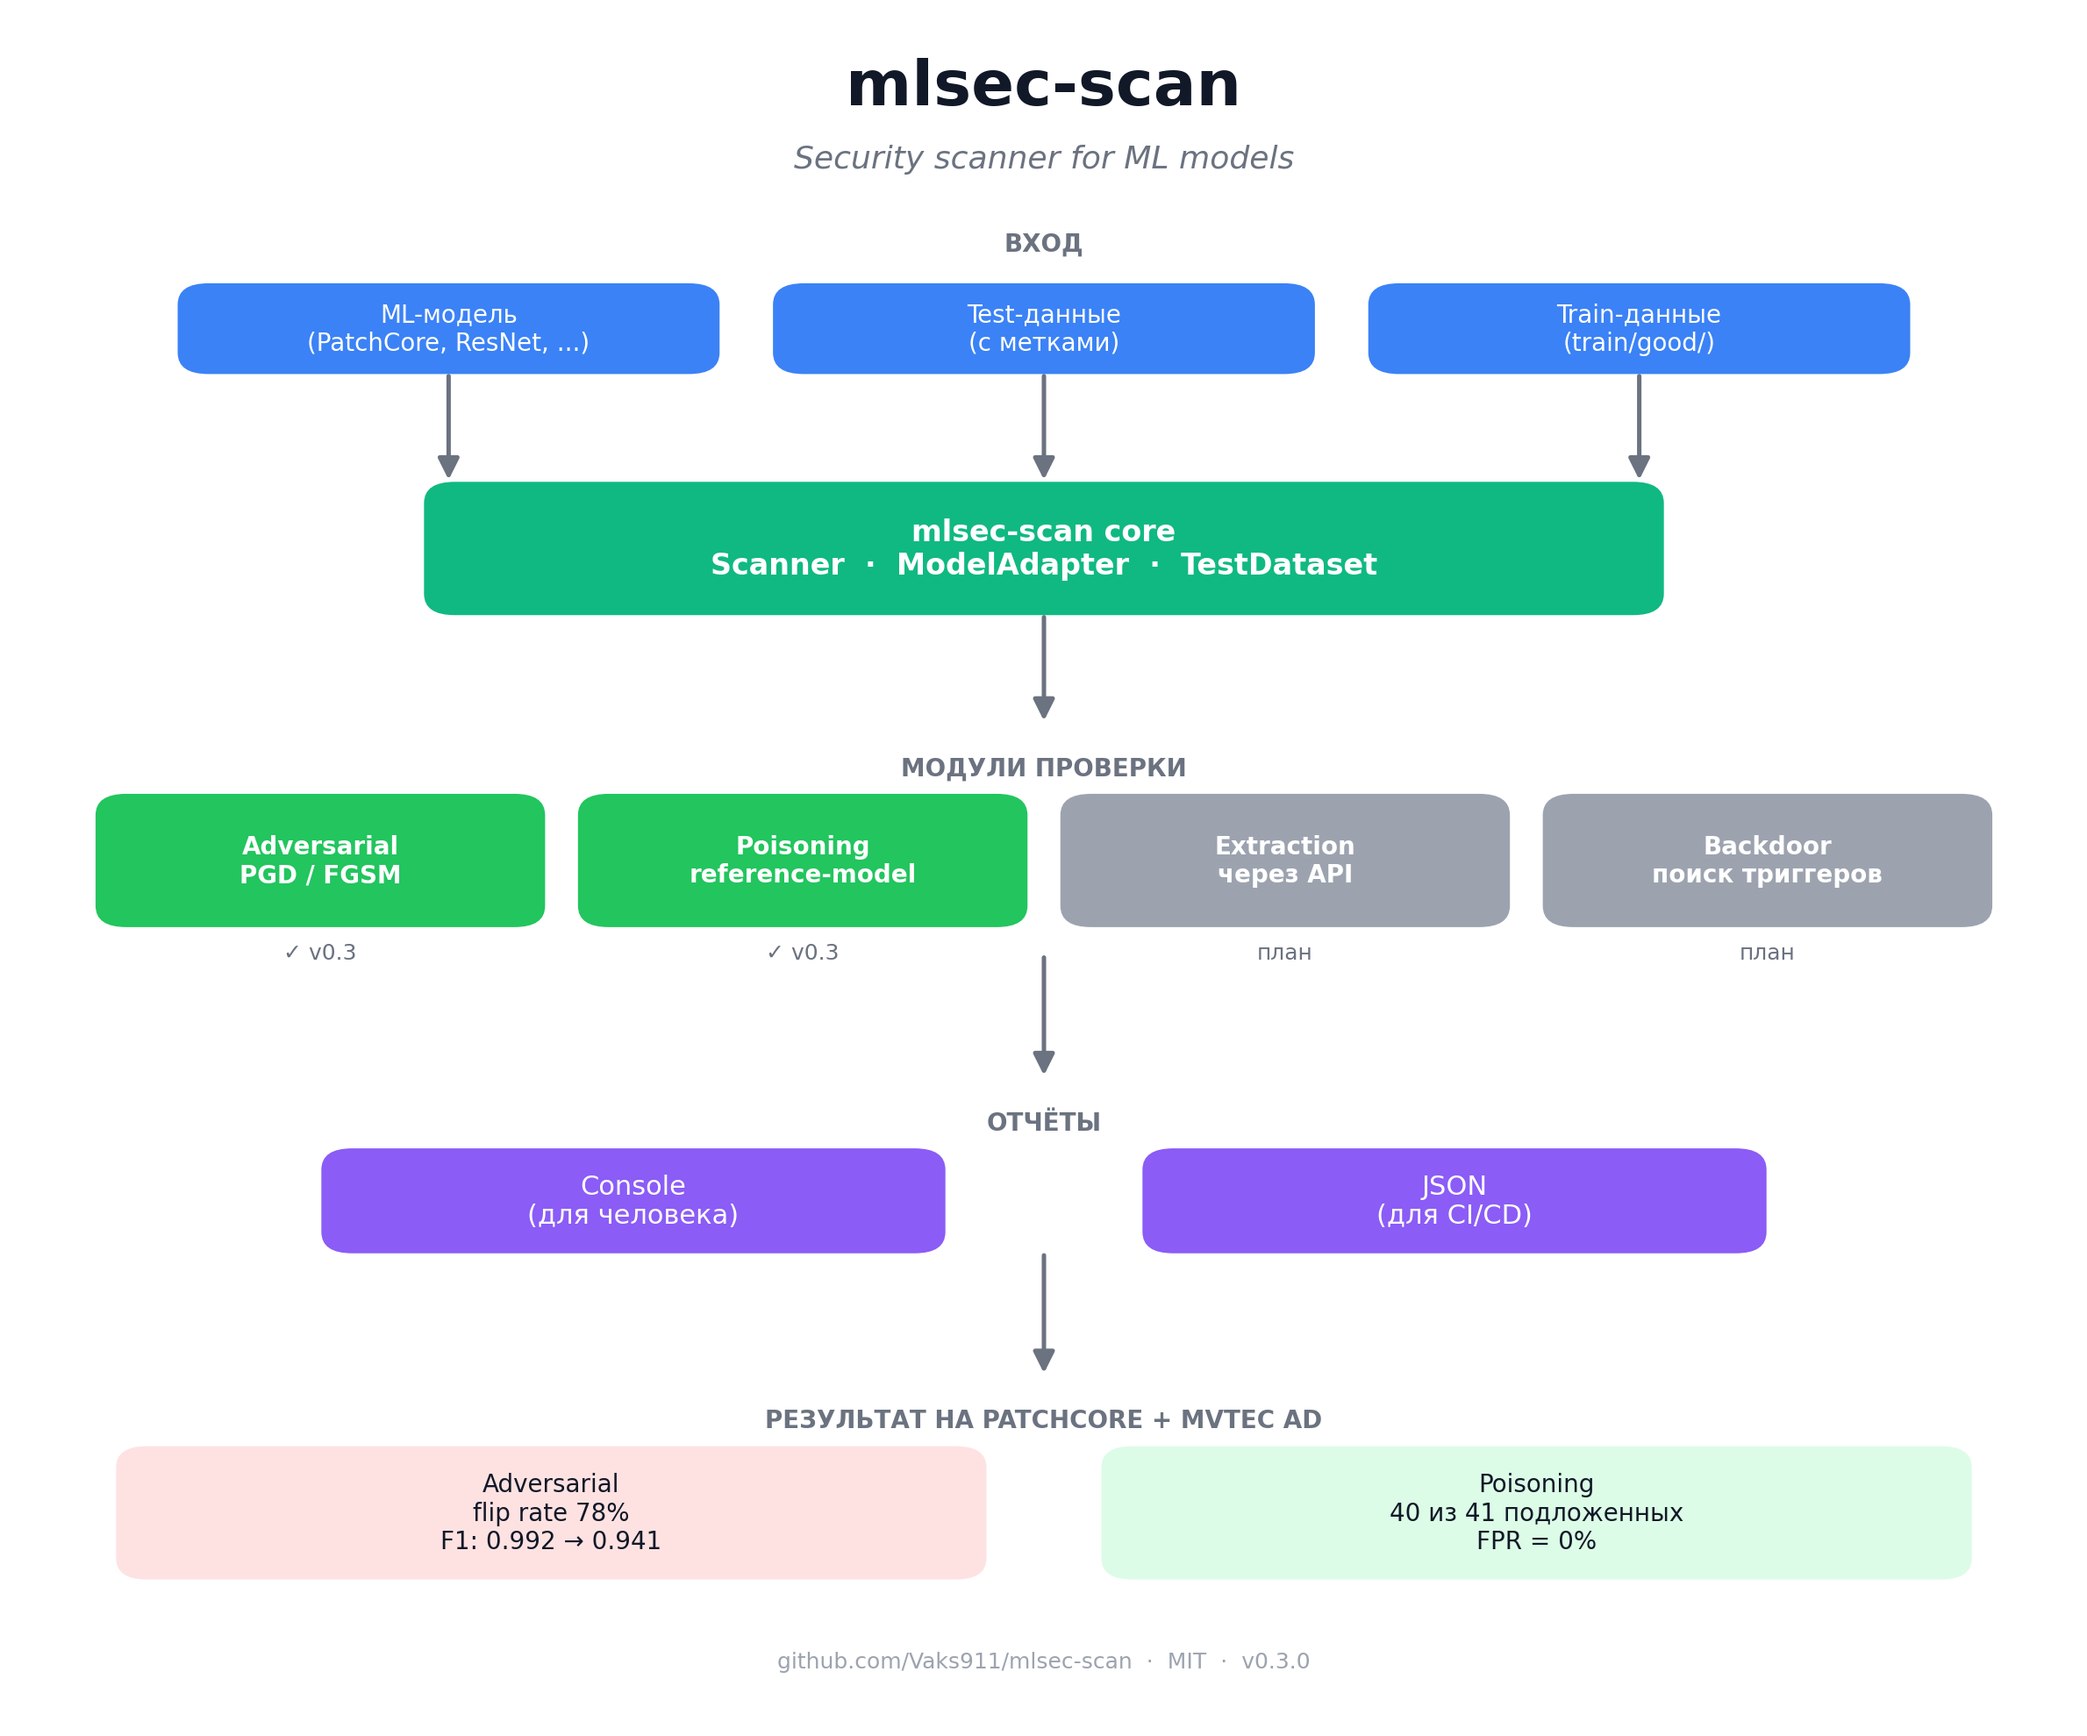
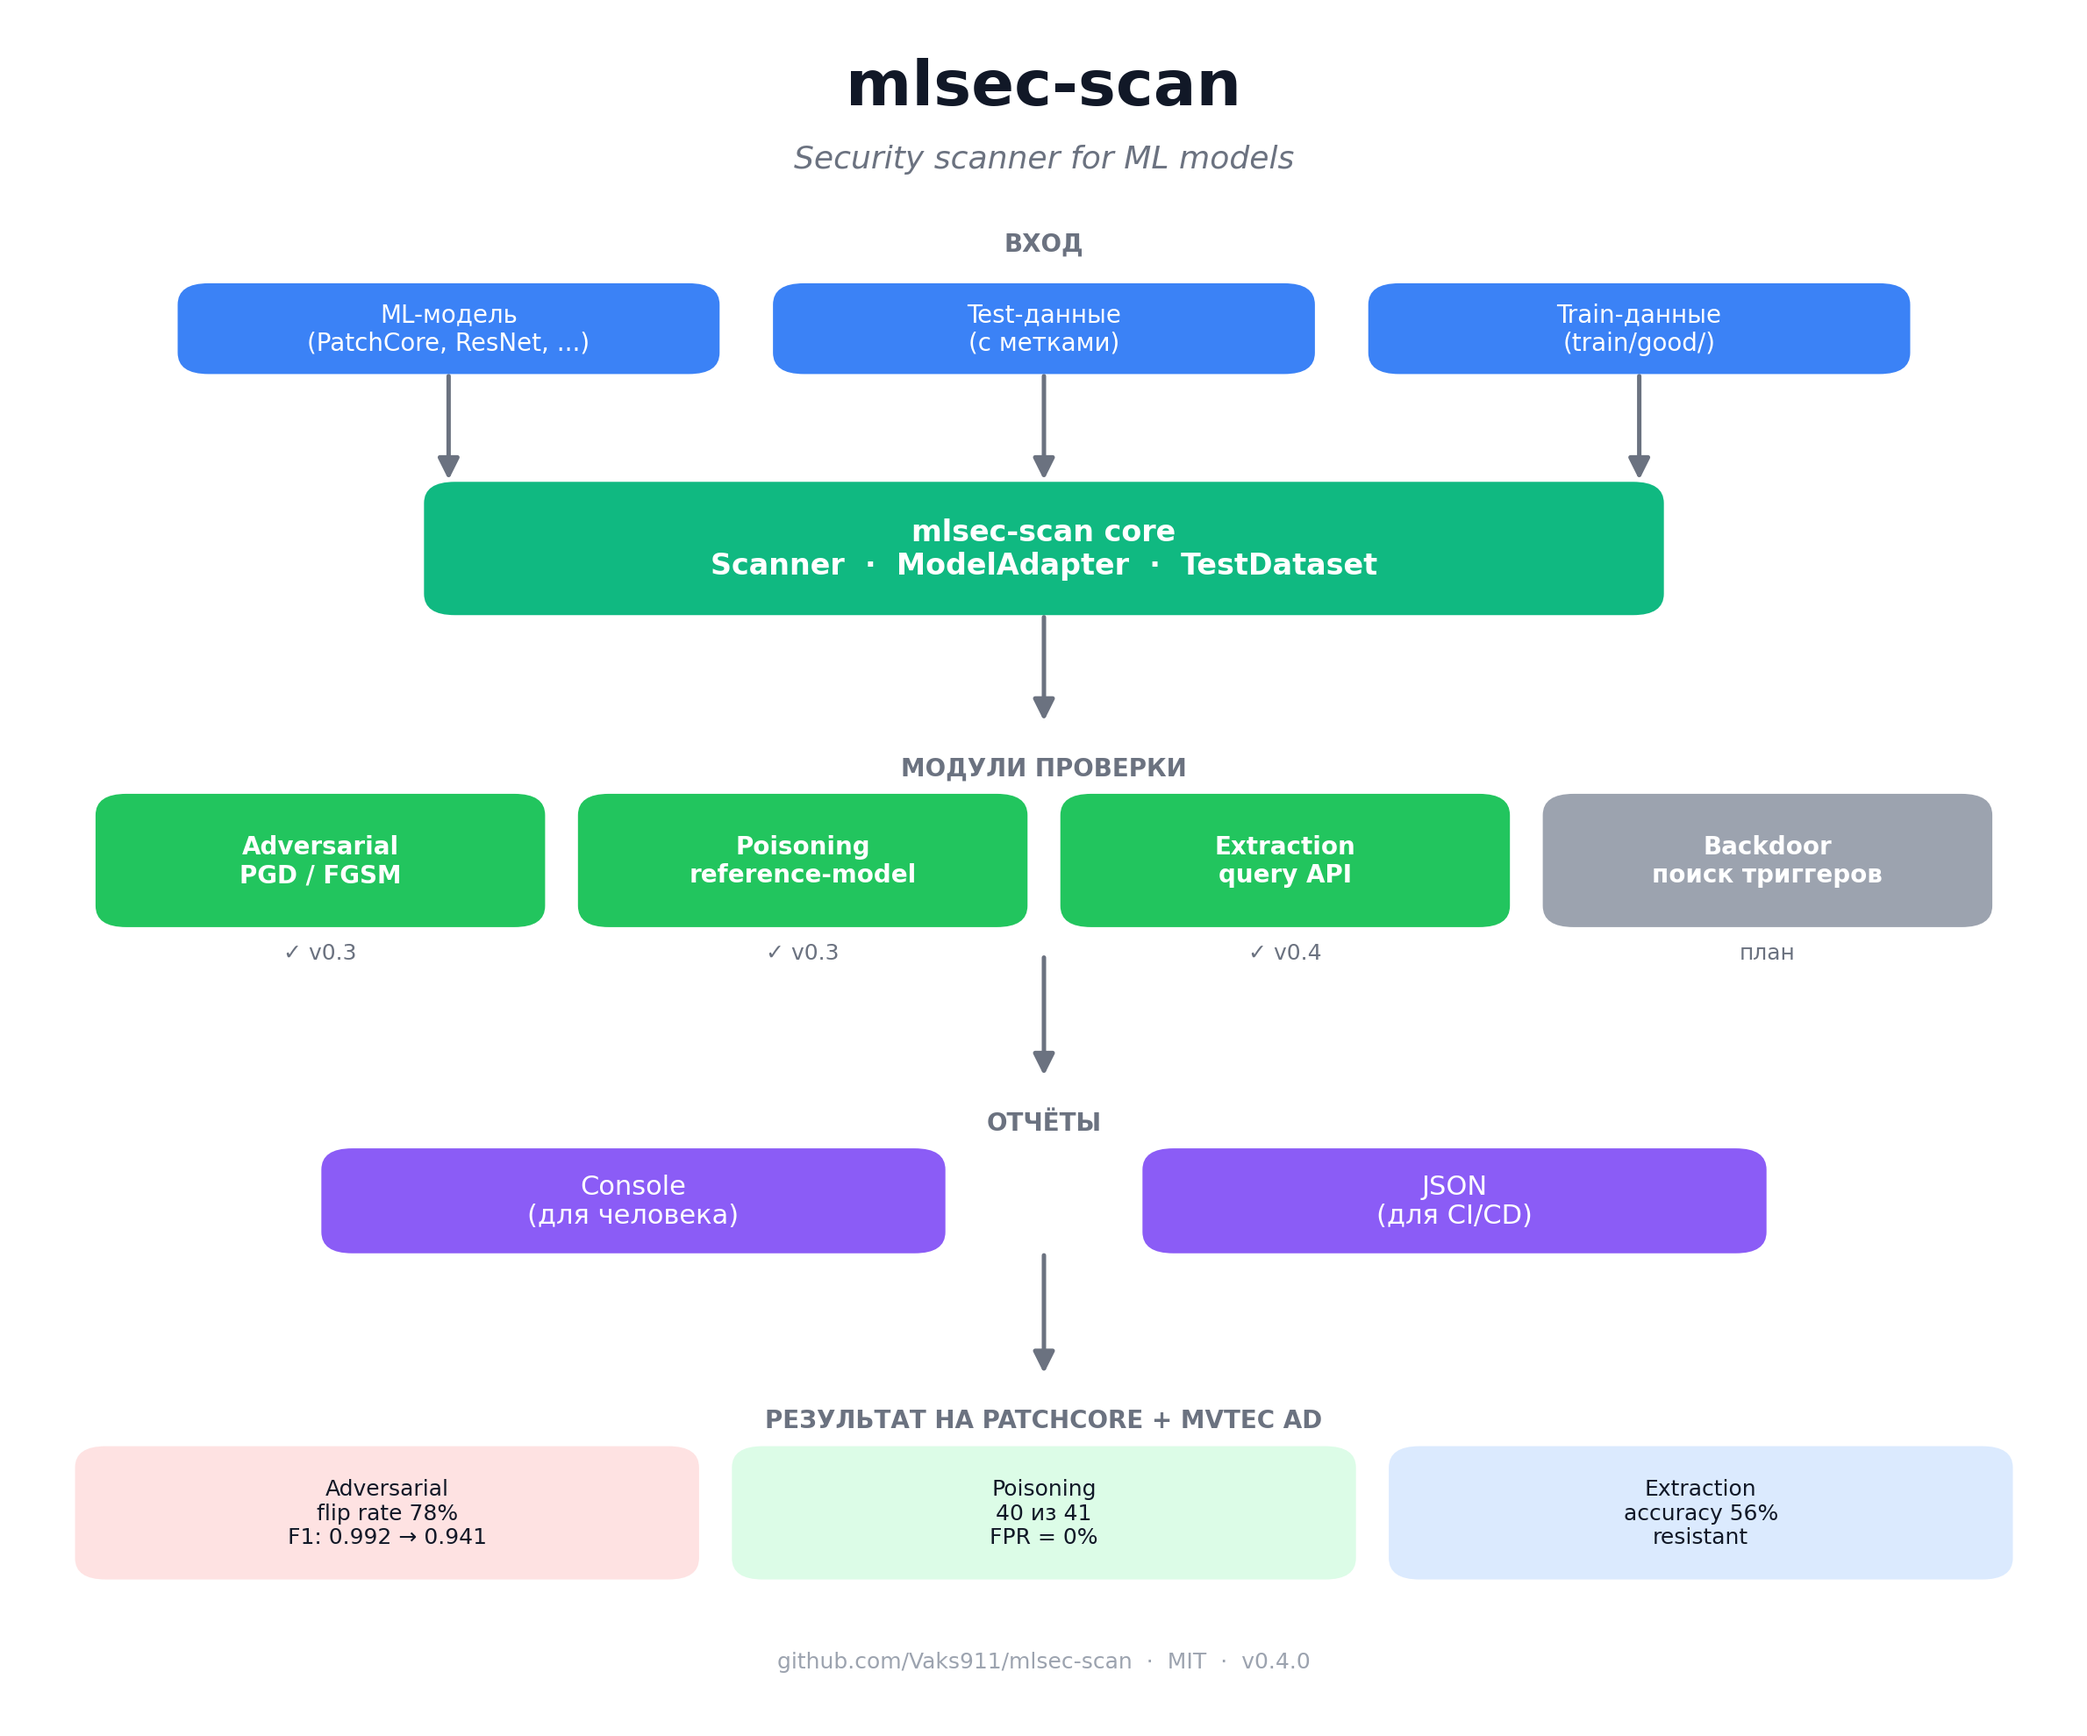
docs: update schema — extraction is now active (v0.4)

diff --git a/tools/draw_schema.py b/tools/draw_schema.py
@@ -154,7 +154,7 @@ def main():
     modules = [
         (0.4, "Adversarial\nPGD / FGSM", C_MODULE_ON, "✓ v0.3"),
         (2.75, "Poisoning\nreference-model", C_MODULE_ON, "✓ v0.3"),
-        (5.10, "Extraction\nчерез API", C_MODULE_OFF, "план"),
+        (5.10, "Extraction\nquery API", C_MODULE_ON, "✓ v0.4"),
         (7.45, "Backdoor\nпоиск триггеров", C_MODULE_OFF, "план"),
     ]
 
@@ -188,7 +188,7 @@ def main():
     box(ax, 1.5, 3.3, 3.0, 0.7, "Console\n(для человека)", C_OUTPUT, fontsize=11)
     box(ax, 5.5, 3.3, 3.0, 0.7, "JSON\n(для CI/CD)", C_OUTPUT, fontsize=11)
 
-    # === Результаты (опционально) ===
+    # === Результаты ===
     arrow(ax, 5.0, 3.3, 5.0, 2.4)
 
     ax.text(
@@ -202,28 +202,41 @@ def main():
         fontweight="bold",
     )
 
+    # Три блока в ряд
     box(
         ax,
-        0.5,
+        0.3,
         1.0,
-        4.2,
+        3.0,
         0.9,
         "Adversarial\nflip rate 78%\nF1: 0.992 → 0.941",
         "#fee2e2",
         C_TEXT,
-        fontsize=10,
+        fontsize=9,
         bold=False,
     )
     box(
         ax,
-        5.3,
+        3.5,
         1.0,
-        4.2,
+        3.0,
         0.9,
-        "Poisoning\n40 из 41 подложенных\nFPR = 0%",
+        "Poisoning\n40 из 41\nFPR = 0%",
         "#dcfce7",
         C_TEXT,
-        fontsize=10,
+        fontsize=9,
+        bold=False,
+    )
+    box(
+        ax,
+        6.7,
+        1.0,
+        3.0,
+        0.9,
+        "Extraction\naccuracy 56%\nresistant",
+        "#dbeafe",
+        C_TEXT,
+        fontsize=9,
         bold=False,
     )
 
@@ -231,7 +244,7 @@ def main():
     ax.text(
         5,
         0.4,
-        "github.com/Vaks911/mlsec-scan  ·  MIT  ·  v0.3.0",
+        "github.com/Vaks911/mlsec-scan  ·  MIT  ·  v0.4.0",
         ha="center",
         va="center",
         fontsize=9,
